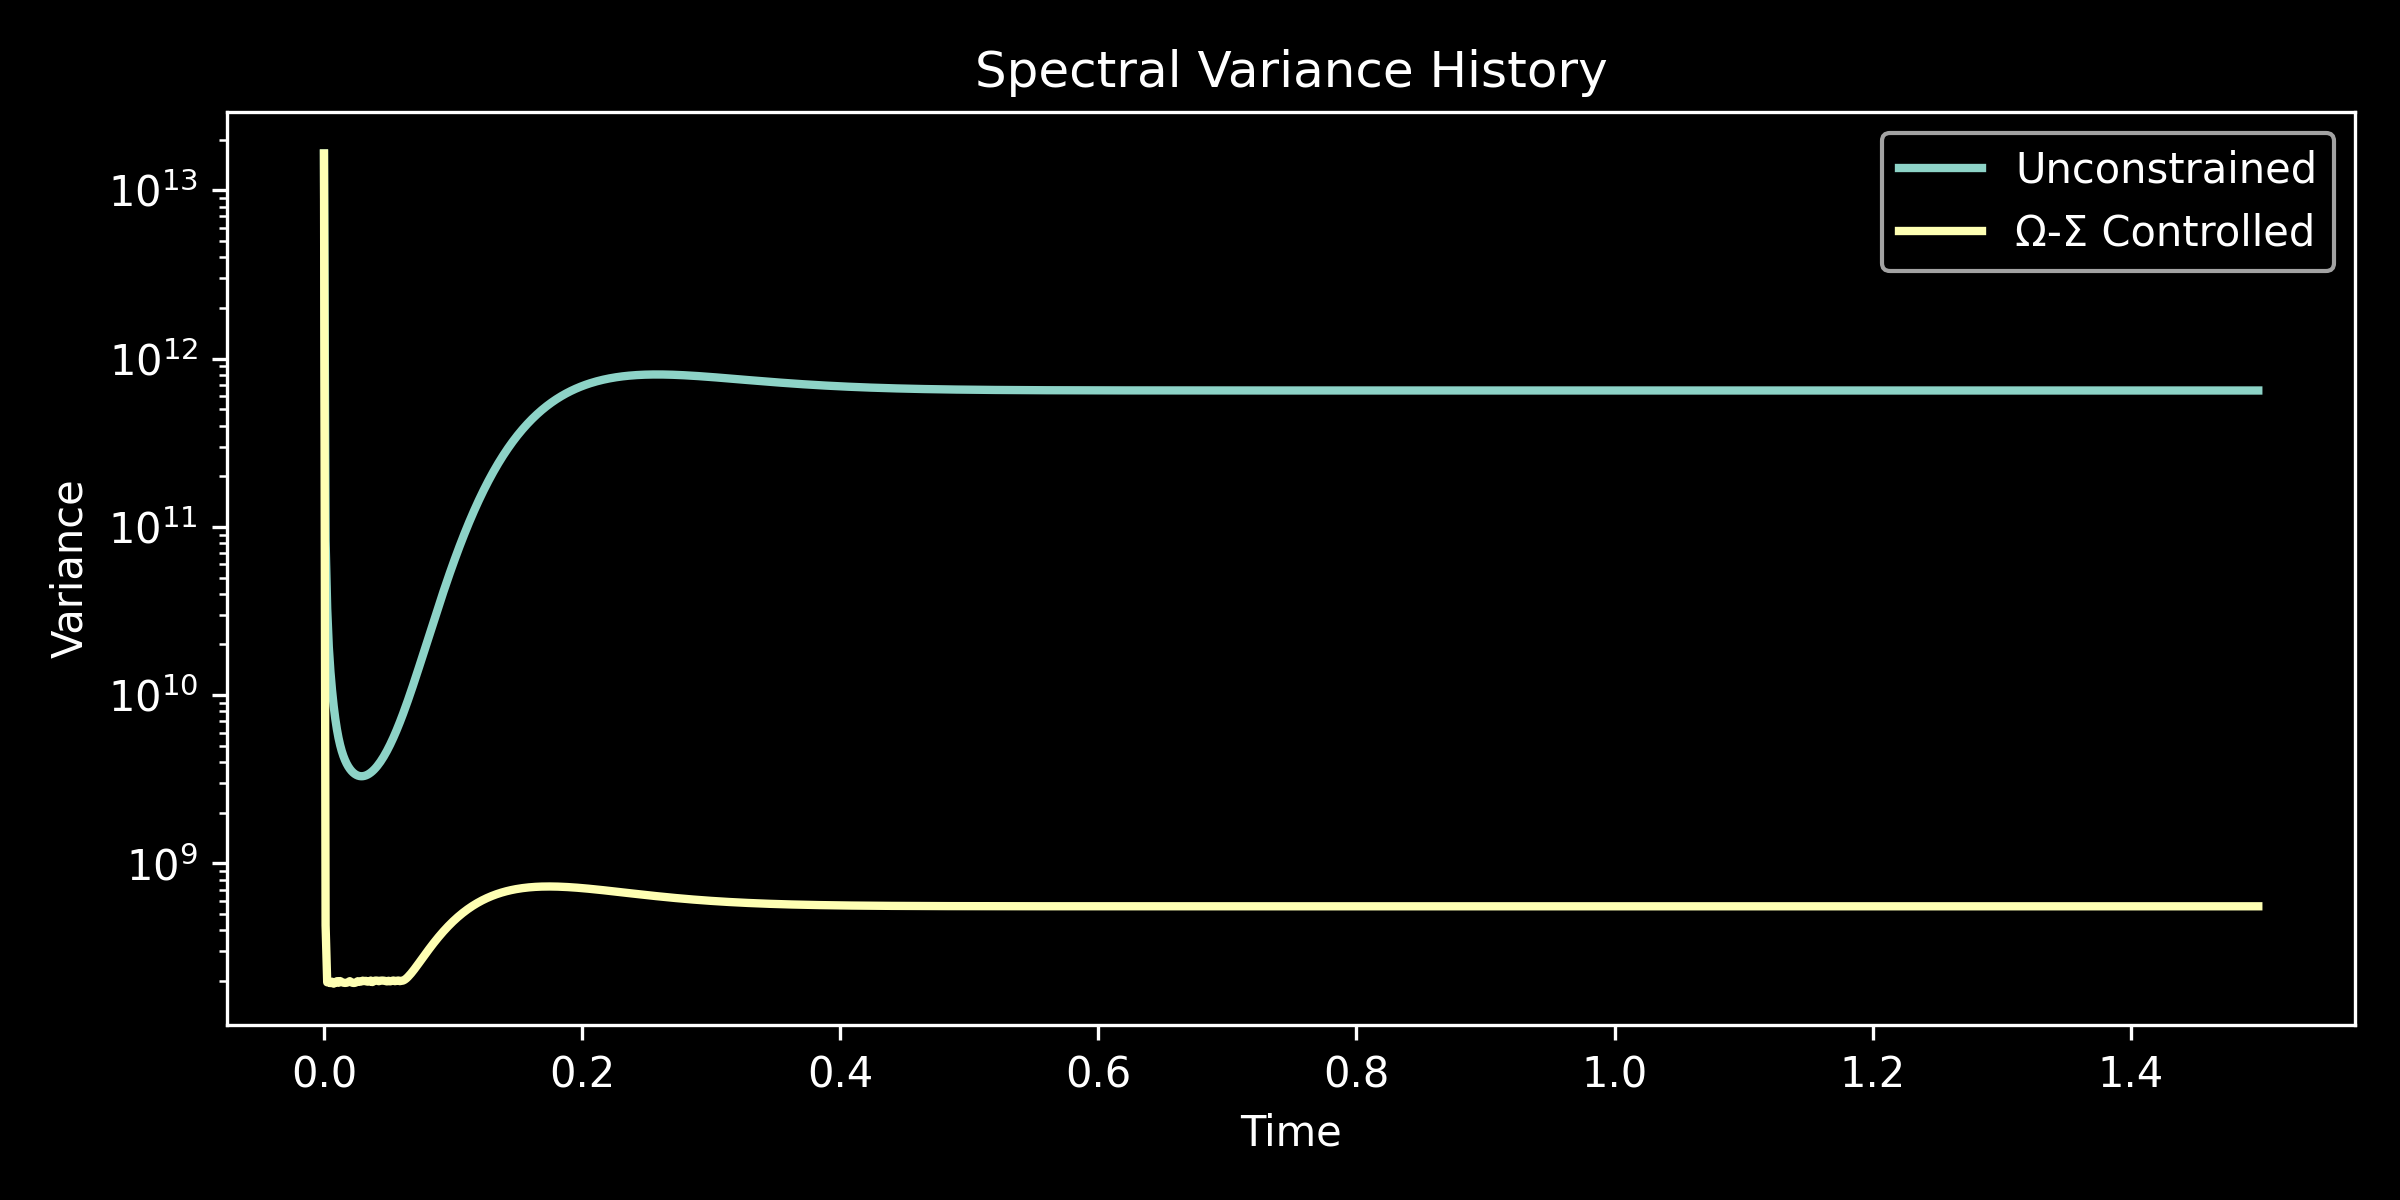
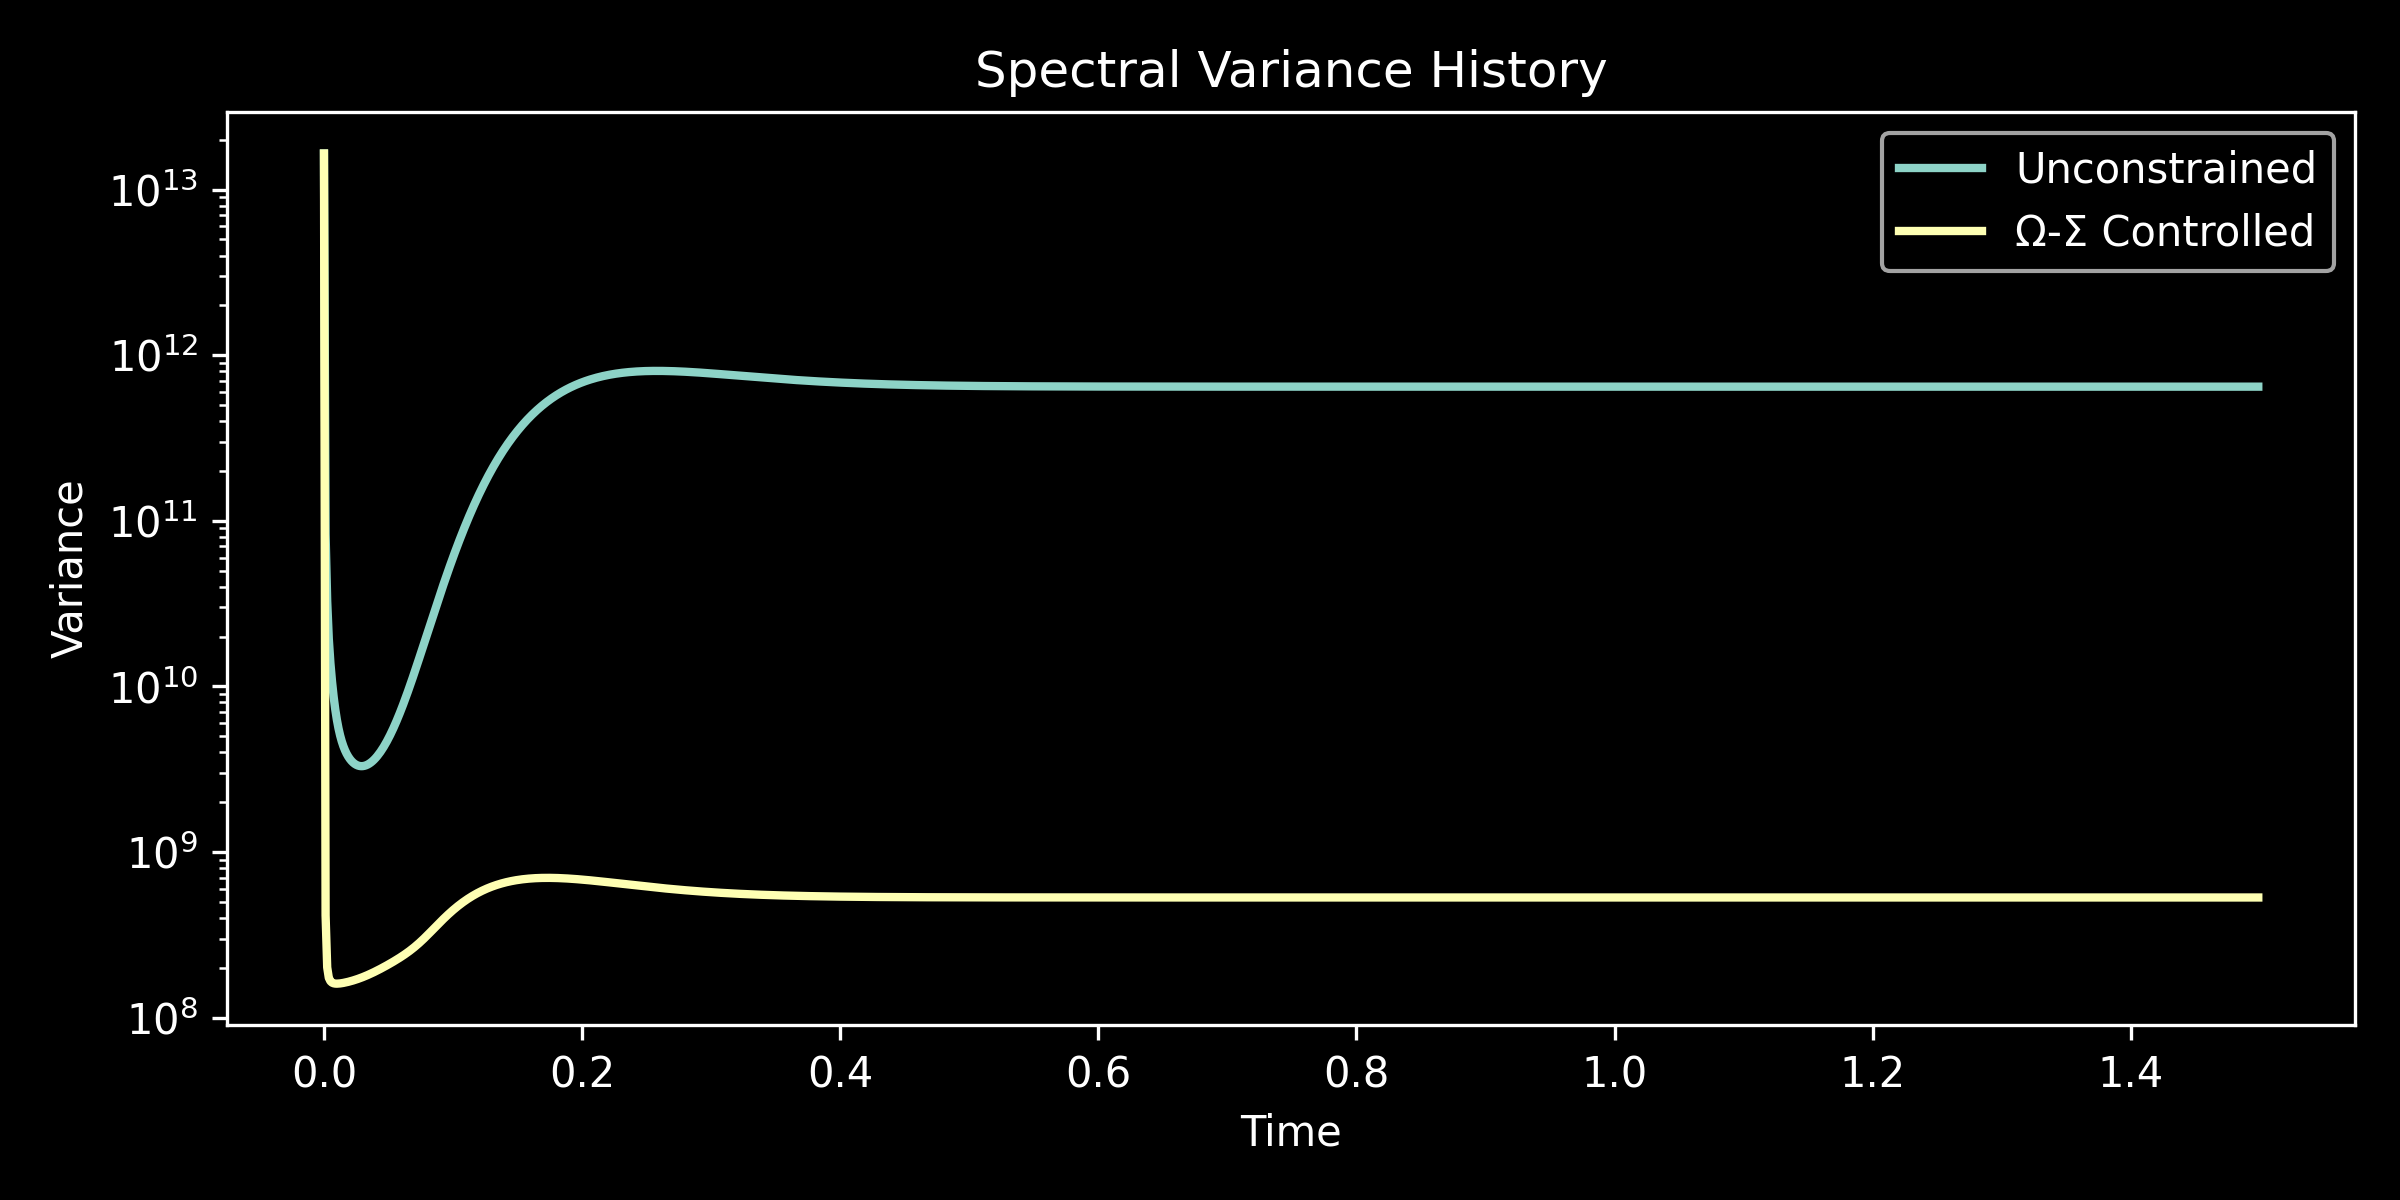
docs: integrate final animated cascade proof and fixed metrics

diff --git a/run_demo.py b/run_demo.py
@@ -77,9 +77,10 @@ def simulate_cascade(apply_omega_sigma_constraint=False):
         # Ω-Σ Controller
         # -------------------------------
         effective_nu = NU
-        if apply_omega_sigma_constraint and variance > VAR_LIMIT:
-            effective_nu = NU * 40.0
-
+        if apply_omega_sigma_constraint:
+           ratio = variance / VAR_LIMIT
+           effective_nu = NU * (1.0 + 40.0 / (1.0 + np.exp(-8.0 * (ratio - 1.0)))) 
+        
         # -------------------------------
         # Dissipation
         # -------------------------------
@@ -188,5 +189,67 @@ if __name__ == "__main__":
     plt.tight_layout()
     plt.savefig("data/final_spectrum.png", dpi=300)
     plt.close()
+    
+    # =====================================================
+    # 6. ANIMATION
+    # =====================================================
+    print("Rendering GIF animation (this takes ~10 seconds)...")
 
-    print("Done. Check /data folder.")
+    # Freeze the final frame so viewers can inspect the terminal state
+    hold_frames = 75
+    base_a_anim = np.concatenate([base_a, np.repeat(base_a[-1][None, :], hold_frames, axis=0)], axis=0)
+    cons_a_anim = np.concatenate([cons_a, np.repeat(cons_a[-1][None, :], hold_frames, axis=0)], axis=0)
+
+    fig4, (ax_base, ax_cons) = plt.subplots(1, 2, figsize=(12, 5))
+    fig4.patch.set_facecolor("black")
+
+    def init_ax(ax, title, color):
+        ax.set_title(title, fontweight='bold')
+        ax.set_facecolor("black")
+        ax.set_ylim(1e-16, 10.0)
+        ax.set_xlim(-0.6, N_SHELLS - 0.4)
+        ax.set_yscale('log')
+        ax.set_xlabel("Shell Index $q$")
+        ax.set_ylabel("Energy $a_q$")
+        ax.grid(True, which="both", axis="y", alpha=0.15, linestyle="--")
+        bars = ax.bar(shells, np.full(N_SHELLS, 1e-16), color=color, alpha=0.85, width=0.8)
+        return bars
+
+    bars_base = init_ax(ax_base, "Baseline (Hallucination)", '#81D4FA')  # Cyan
+    bars_cons = init_ax(ax_cons, "Ω-Σ Engine (Stable)", '#FFF59D')       # Yellow
+
+    time_text = fig4.text(
+        0.5, 0.02, "",
+        ha="center", va="bottom",
+        color="white", fontsize=11
+    )
+
+    def update(frame):
+        for bar, h in zip(bars_base, base_a_anim[frame]):
+            bar.set_height(max(float(h), 1e-16))
+
+        for bar, h in zip(bars_cons, cons_a_anim[frame]):
+            bar.set_height(max(float(h), 1e-16))
+
+        if frame < len(base_a):
+            t_val = frame * DT * 25.0
+            time_text.set_text(f"t = {t_val:.4f}")
+        else:
+            time_text.set_text("Final state (held)")
+
+        return list(bars_base) + list(bars_cons) + [time_text]
+
+    ani = animation.FuncAnimation(
+        fig4,
+        update,
+        frames=len(base_a_anim),
+        interval=25,
+        blit=True,
+        repeat=False
+    )
+
+    plt.tight_layout(rect=[0, 0.05, 1, 1])
+    ani.save("data/cascade_demo.gif", writer="pillow", fps=24)
+    plt.close(fig4)
+    
+    print("GIF rendered successfully! Check the /data folder.")
